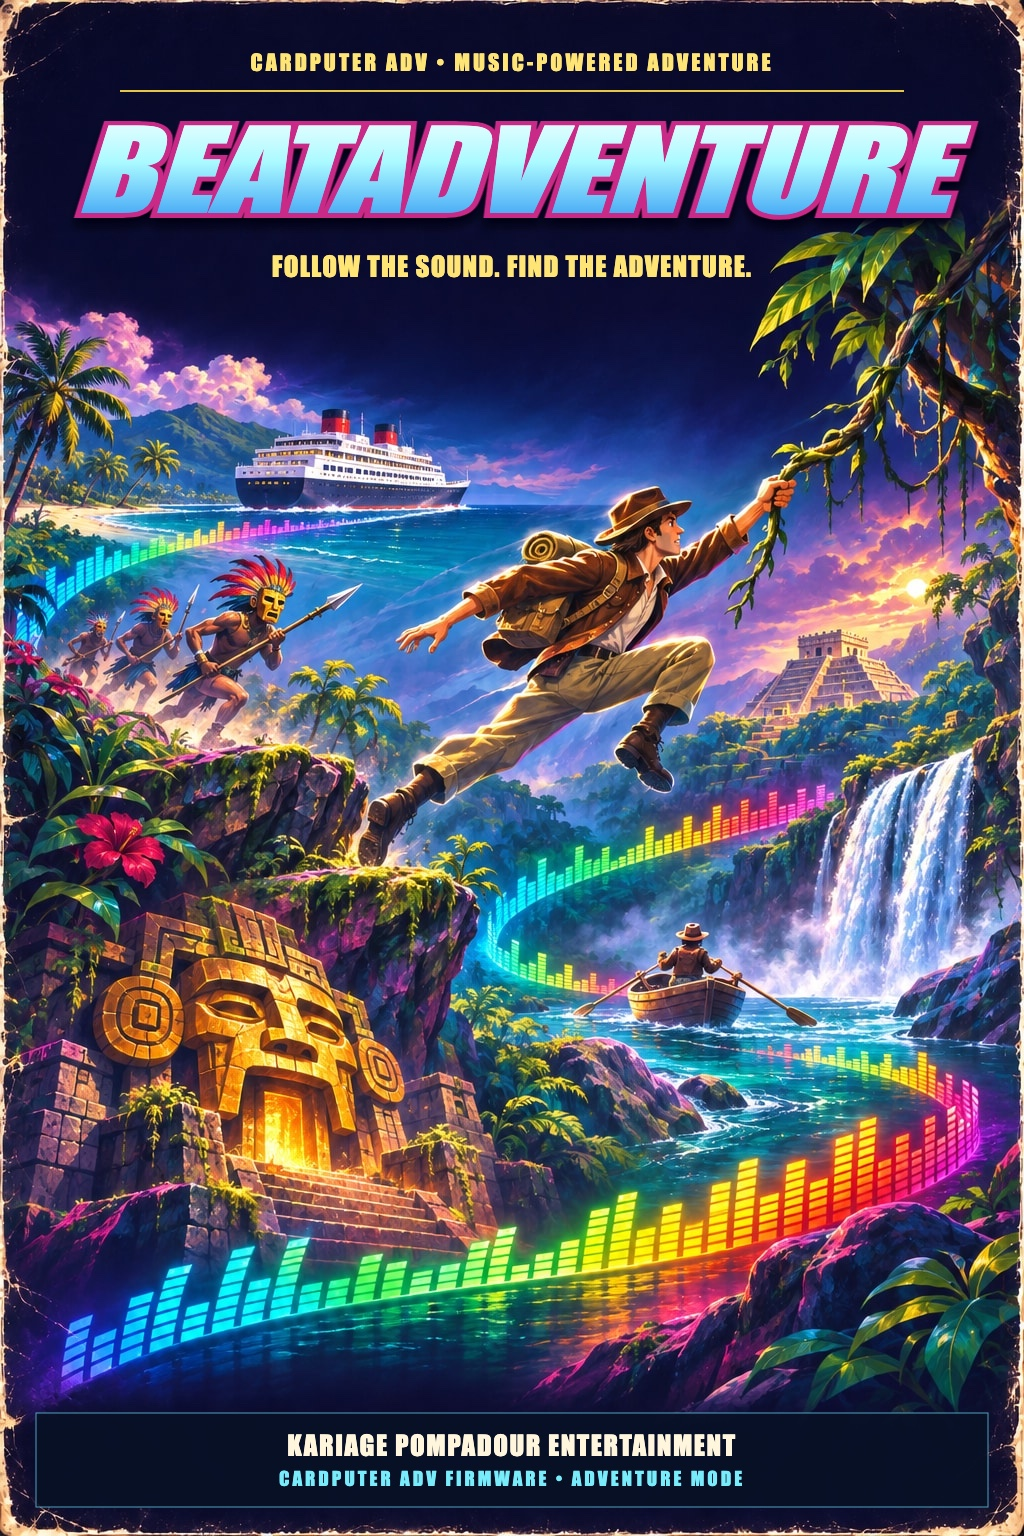
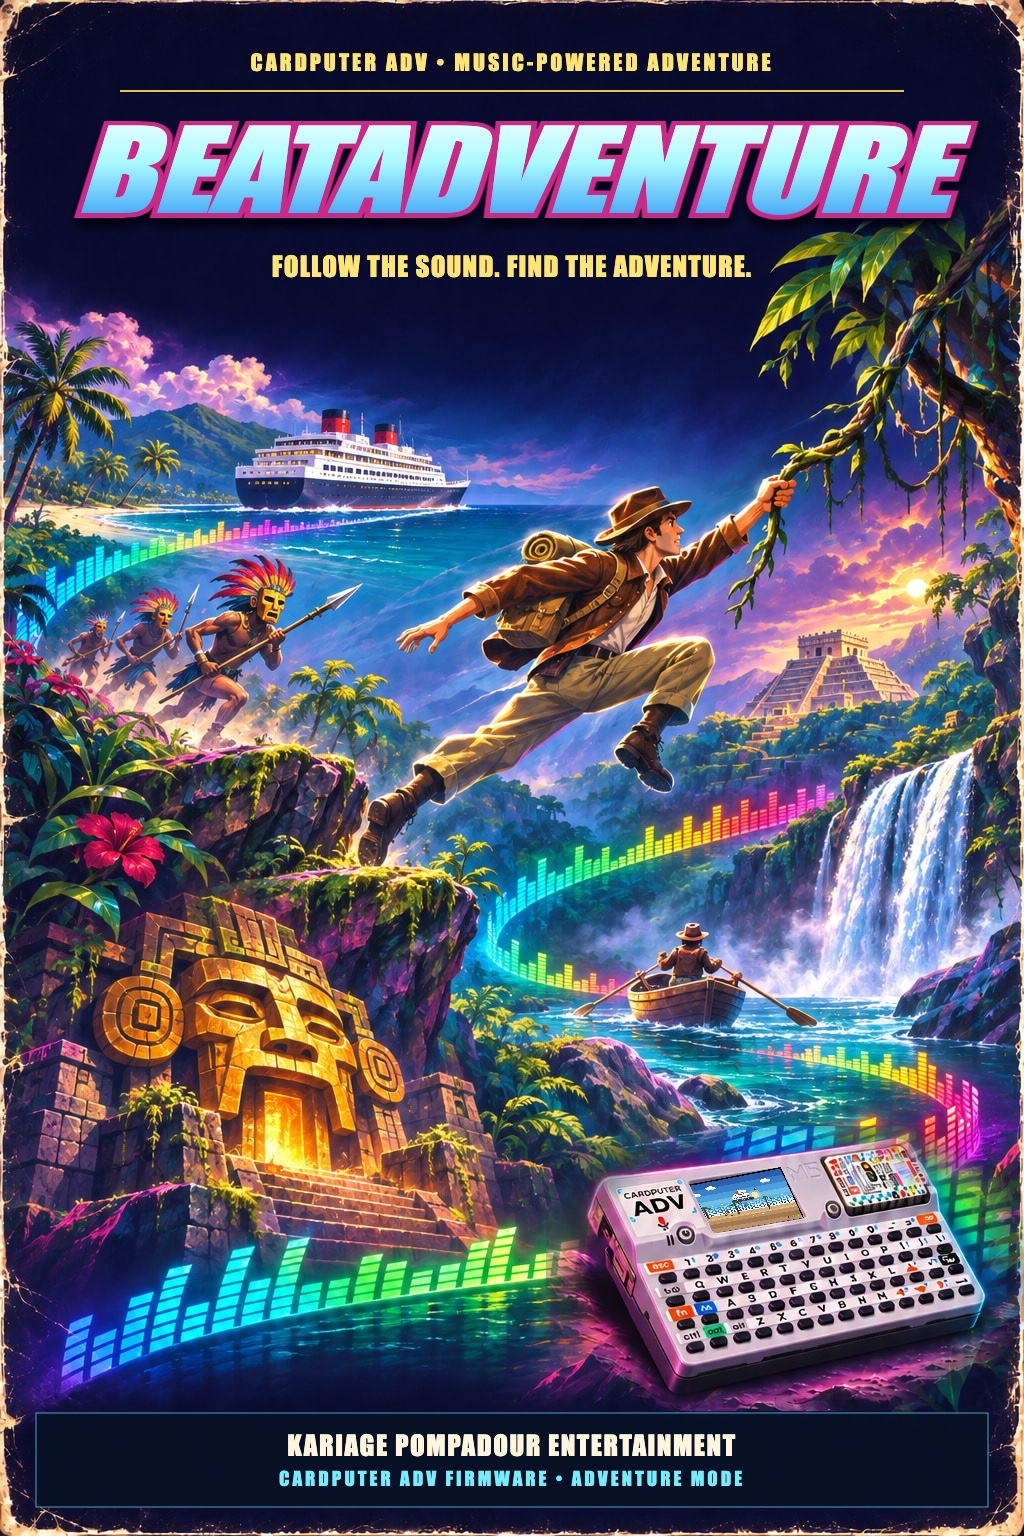
Docs: poster with the Cardputer ADV from the KeySpeaker poster, its screen showing the real BeatAdventure screen (EN, JA)

Changed region(s): [[0.5312, 0.7188, 1.0, 0.9375]]

diff --git a/README_JA.md b/README_JA.md
@@ -21,7 +21,7 @@ BeatAdventure は、M5Stack Cardputer ADV(画面 240 x 135)用の、音楽で動
 </td>
 <td valign="top" width="360">
 
-<img src="docs/images/poster_ja.jpg" alt="BeatAdventureのポスター：探検家がツルで密林の川を渡り、客船、狩人、黄金の神殿、滝、ピラミッドが並び、音の棒が全体を縫う" width="360">
+<img src="docs/images/poster_ja.jpg" alt="BeatAdventureのポスター：探検家がツルで密林の川を渡り、客船、狩人、黄金の神殿、滝、ピラミッドが並び、音の棒が全体を縫う。隅のCardputer ADVに、ゲーム画面が映っている" width="360">
 
 </td>
 </tr>

diff --git a/README.md b/README.md
@@ -21,7 +21,7 @@ This firmware was ported from it, and the web demo is the reference for how ever
 </td>
 <td valign="top" width="360">
 
-<img src="docs/images/poster_en.jpg" alt="BeatAdventure poster: an explorer swings over a jungle river past a liner, hunters, a golden temple face, a waterfall and a pyramid, with sound bars winding through it all" width="360">
+<img src="docs/images/poster_en.jpg" alt="BeatAdventure poster: an explorer swings over a jungle river past a liner, hunters, a golden temple face, a waterfall and a pyramid, with sound bars winding through it all; a Cardputer ADV in the corner shows the game" width="360">
 
 </td>
 </tr>
